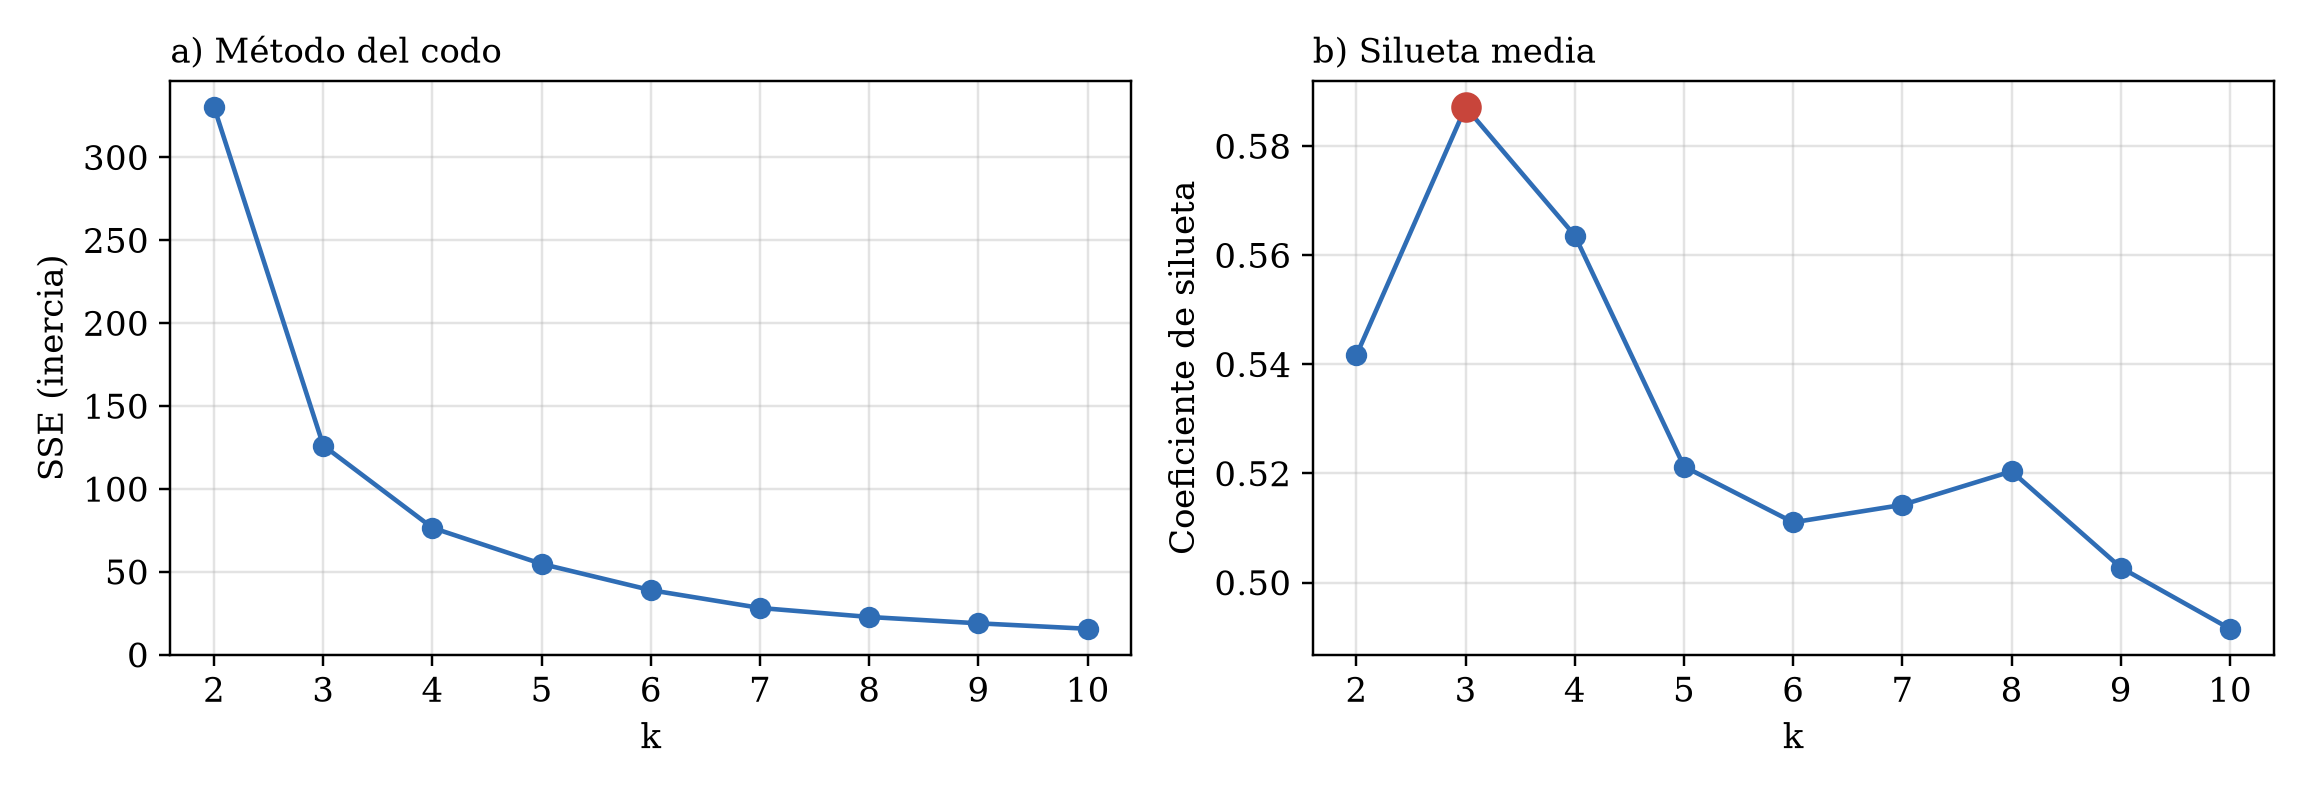
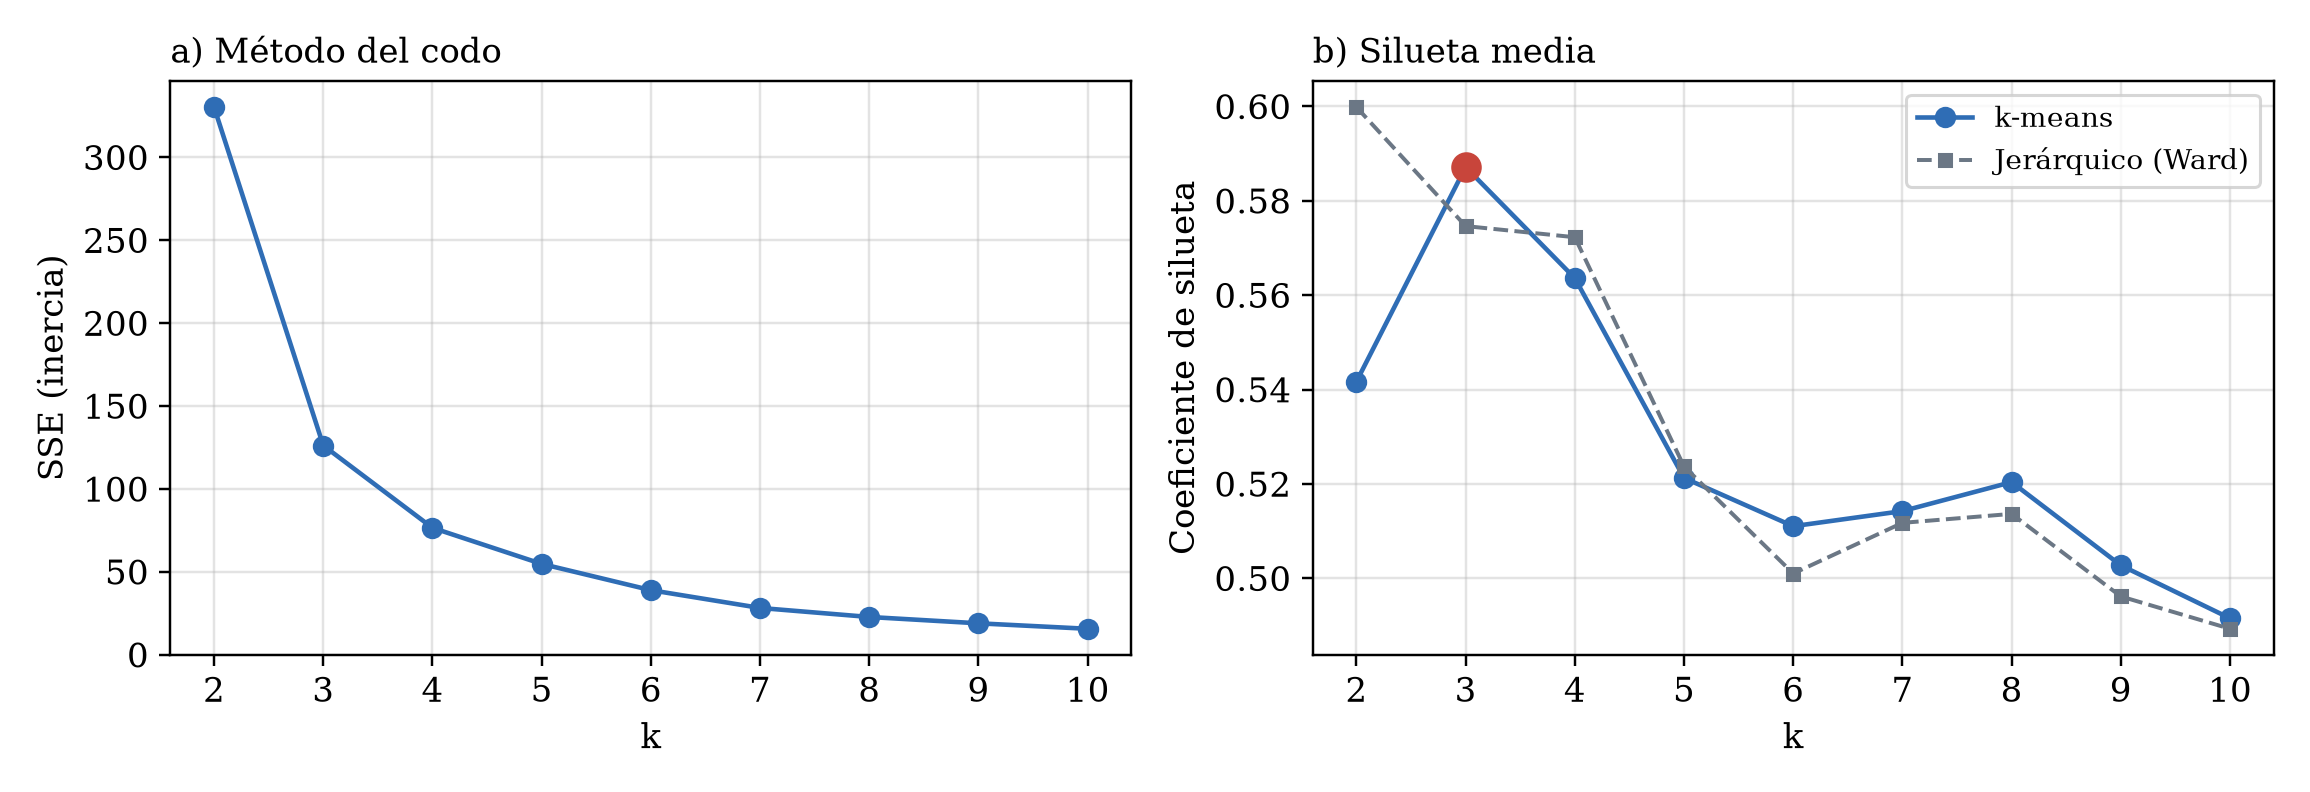
feat(figures): add per-model actual-vs-forecast panels and hierarchical silhouette

diff --git a/ml/figuras.py b/ml/figuras.py
@@ -159,8 +159,20 @@ class _Figuras:
         a1.set_xlabel("k")
         a1.set_ylabel("SSE (inercia)")
         a1.set_title("a) Método del codo", loc="left", fontsize=11)
-        a2.plot(ks, [sil[k] for k in ks], color=AZUL, marker="o")
+        a2.plot(ks, [sil[k] for k in ks], color=AZUL, marker="o", label="k-means")
+        jsil = {int(k): v for k, v in r["jerarquico"]["silueta"].items()}
+        a2.plot(
+            ks,
+            [jsil[k] for k in ks],
+            color=GRIS,
+            marker="s",
+            ls="--",
+            lw=1.3,
+            ms=4,
+            label="Jerárquico (Ward)",
+        )
         a2.plot([r["kmeans_k"]], [sil[int(r["kmeans_k"])]], "o", color=ROJO, ms=9)
+        a2.legend(fontsize=9)
         a2.set_xlabel("k")
         a2.set_ylabel("Coeficiente de silueta")
         a2.set_title("b) Silueta media", loc="left", fontsize=11)
@@ -258,6 +270,41 @@ class _Figuras:
             ax.set_title(titulo, loc="left", fontsize=11)
         ejes[0].set_ylim(5, 1e6)
         self.guardar(fig, "gd.png")
+
+    def paneles(self) -> None:
+        """Real frente a pronosticado en 2026 para cada modelo y el ingenuo (corrida 2)."""
+        te = pd.DataFrame(self.r["pred_B"])
+        y = te["y"].values
+        preds = dict(self.r["pred_modelos_B"])
+        preds.pop("Regresión lineal (ecuación normal)", None)  # igual al gradiente descendiente
+        preds["Ingenuo (mes anterior)"] = te["lag1"].tolist()
+        orden = sorted(preds, key=lambda k: np.mean(np.abs(np.array(preds[k]) - y)))
+        corto = {
+            "Regresión lineal (gradiente descendiente)": "Regresión lineal (GD)",
+            "Ingenuo (mes anterior)": "Ingenuo",
+        }
+        fig, ejes = plt.subplots(3, 4, figsize=(11, 8.6), sharex=True, sharey=True)
+        lim = [15, 300]
+        tk = [20, 50, 120, 300]
+        for ax, k in zip(ejes.flat, orden, strict=False):
+            p = np.array(preds[k])
+            ax.scatter(y, p, s=4, color=ROJO if k.startswith("Ingenuo") else AZUL, alpha=0.5)
+            ax.plot(lim, lim, color="#333", lw=0.8)
+            ax.set_xscale("log")
+            ax.set_yscale("log")
+            ax.set_xlim(lim)
+            ax.set_ylim(lim)
+            ax.set_xticks(tk, [str(v) for v in tk])
+            ax.set_yticks(tk, [str(v) for v in tk])
+            ax.minorticks_off()
+            titulo = corto.get(k, k) + (" (adoptado)" if k == self.r["mejor"] else "")
+            mae = coma(float(np.mean(np.abs(p - y))), 2)
+            ax.set_title(titulo + "\n" + f"MAE {mae} kWh", fontsize=9.5)
+        for ax in ejes.flat[len(orden) :]:
+            ax.set_visible(False)
+        fig.supxlabel("Consumo medio real (kWh)", fontsize=10)
+        fig.supylabel("Consumo medio pronosticado (kWh)", fontsize=10)
+        self.guardar(fig, "paneles.png")
 
     def comparacion(self) -> None:
         r = self.r
@@ -429,7 +476,7 @@ class _Figuras:
 def generar(
     resultados: dict[str, Any], preprocesamiento: dict[str, Any], destino: Path
 ) -> list[str]:
-    """Dibuja las 14 figuras del informe en ``destino`` y devuelve sus nombres."""
+    """Dibuja las 15 figuras del informe en ``destino`` y devuelve sus nombres."""
     plt.rcParams.update(ESTILO)
     f = _Figuras(resultados, preprocesamiento, destino)
     for paso in (
@@ -445,6 +492,7 @@ def generar(
         f.comparacion,
         f.regional,
         f.dispersion,
+        f.paneles,
         f.importancia,
         f.mae_mes,
     ):
